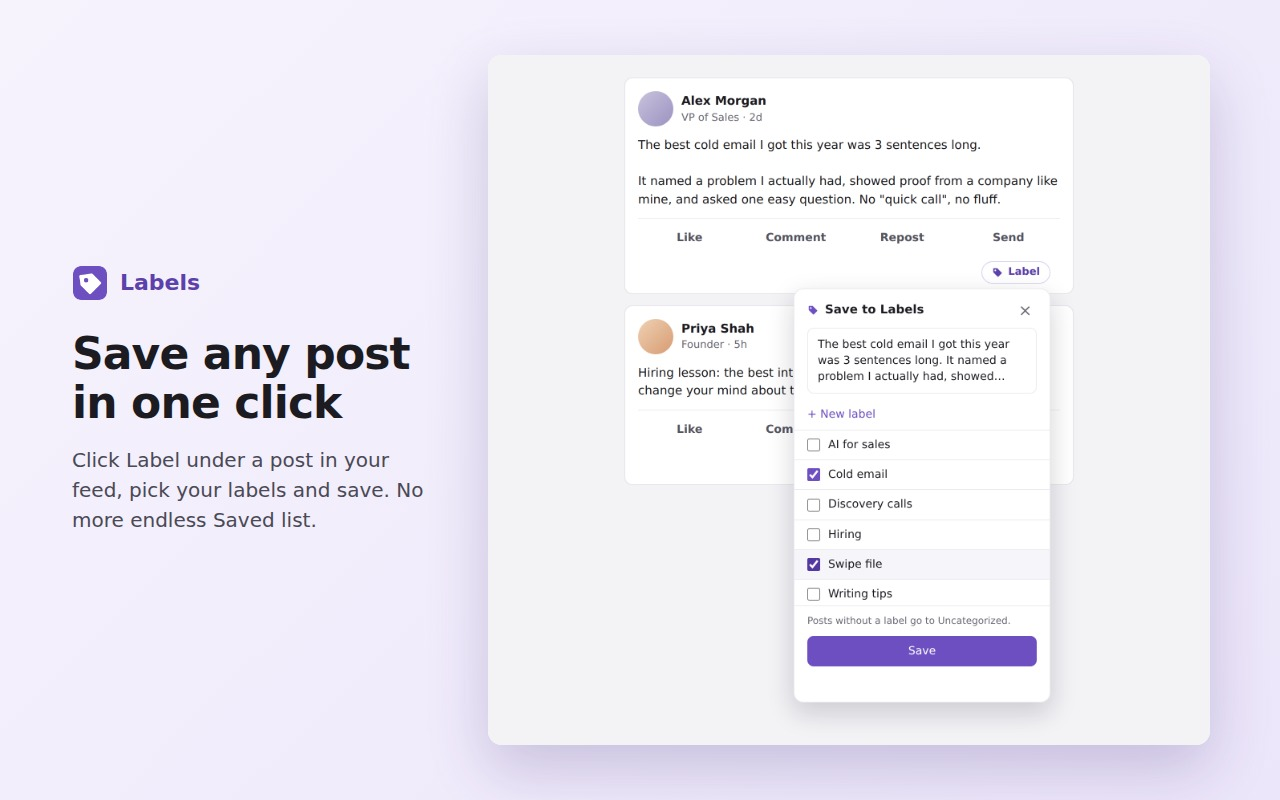
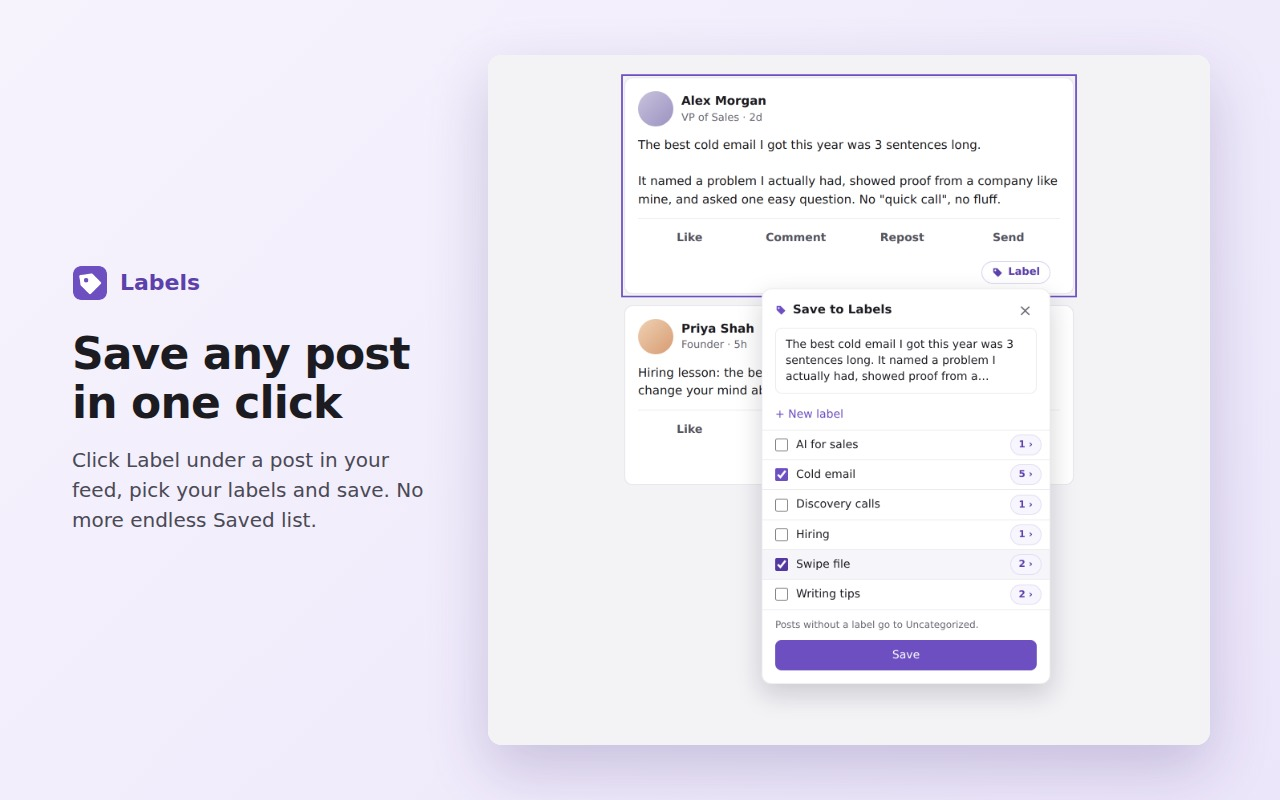
Picker: post counts that open a label; roomier layout
- Each label with saved posts shows a count pill (e.g. '3 ›') in the
  picker. Clicking it opens that label's posts in a full-page tab
  (popup.html?mode=tab&label=…); clicking the row still only ticks the
  box. Counts update as soon as a post is saved.
- Picker is 360px wide like the toolbar popup, the label list grows with
  the window (180-400px), and the empty space reserved under Save is
  gone until there's a status to show. Row hover covers the whole row.
- Regenerated store images; e2e grows to 29 checks.

Claude-Session: https://claude.ai/code/session_014VXTtQaA3nHhVf8nrcdrNo

Changed region(s): [[0.5938, 0.375, 0.8438, 0.875], [0.5, 0.3438, 0.5938, 0.375], [0.8125, 0.3438, 0.8438, 0.375]]

diff --git a/content.js b/content.js
@@ -32,7 +32,7 @@
 
   const PANEL_CSS = `${BASE_CSS}
     .panel {
-      position: fixed; z-index: 2147483000; width: 320px; max-width: calc(100vw - 16px);
+      position: fixed; z-index: 2147483000; width: 360px; max-width: calc(100vw - 16px);
       background: #fff; color: #1c1b22; border: 1px solid #ececf0; border-radius: 12px;
       box-shadow: 0 12px 32px rgba(20, 20, 40, 0.18); font-size: 14px; line-height: 1.45;
       padding: 14px 16px 16px;
@@ -56,11 +56,13 @@
       font: inherit; font-size: 14px; color: #1c1b22; background: #fff;
     }
     input[type=text]:focus { outline: none; border-color: #6d4fc2; box-shadow: 0 0 0 3px #f2eefb; }
-    .list { list-style: none; margin: 4px -16px 10px; padding: 0; max-height: 220px; overflow-y: auto;
+    .list { list-style: none; margin: 4px -16px 10px; padding: 0; overflow-y: auto;
+      max-height: clamp(180px, calc(100vh - 360px), 400px);
       border-top: 1px solid #ececf0; border-bottom: 1px solid #ececf0; }
+    .list li { display: flex; align-items: center; }
     .list li + li { border-top: 1px solid #ececf0; }
-    .list label { display: flex; align-items: center; gap: 10px; padding: 8px 16px; cursor: pointer; }
-    .list label:hover { background: #f6f5f9; }
+    .list label { flex: 1; min-width: 0; display: flex; align-items: center; gap: 10px; padding: 8px 8px 8px 16px; cursor: pointer; }
+    .list li:hover { background: #f6f5f9; }
     .list input { width: 16px; height: 16px; margin: 0; accent-color: #6d4fc2; flex: none; }
     .list span { overflow: hidden; text-overflow: ellipsis; white-space: nowrap; }
     .hint { font-size: 12px; color: #6b6a75; margin: 0 0 10px; }
@@ -70,7 +72,14 @@
     .btn.block { width: 100%; }
     .btn:disabled { opacity: 0.55; cursor: default; }
     .error { margin: 8px 0; padding: 8px 10px; border-radius: 6px; background: #fdf0f0; color: #b4262c; font-size: 13px; }
-    .status { min-height: 20px; margin-top: 8px; text-align: center; font-size: 13px; color: #2f7d4f; font-weight: 500; }
+    .count {
+      flex: none; margin-right: 10px; padding: 4px 10px; border: 1px solid #e4def6; border-radius: 999px;
+      background: #f7f5fd; color: #5c40ab; font-size: 12px; font-weight: 600; line-height: 1.3;
+      font-variant-numeric: tabular-nums;
+    }
+    .count:hover { background: #ece6fa; border-color: #d3c8f1; }
+    .count:focus-visible { outline: 2px solid #6d4fc2; outline-offset: 1px; }
+    .status { margin-top: 8px; text-align: center; font-size: 13px; color: #2f7d4f; font-weight: 500; }
     .loading { color: #6b6a75; padding: 12px 0; }
   `;
 
@@ -346,6 +355,19 @@
                   }),
                   h('span', null, label.name),
                 ),
+                label.count > 0 &&
+                  h(
+                    'button',
+                    {
+                      class: 'count',
+                      type: 'button',
+                      title: `View ${label.count} saved post${label.count === 1 ? '' : 's'}`,
+                      'aria-label': `View ${label.count} saved post${label.count === 1 ? '' : 's'} in ${label.name}`,
+                      'data-focus': `count-${label.id}`,
+                      onClick: () => openLabel(label.id),
+                    },
+                    `${label.count} \u203A`,
+                  ),
               ),
             ),
           )
@@ -357,8 +379,19 @@
         { class: 'btn primary block', type: 'button', disabled: p.saving, 'data-focus': 'save', onClick: save },
         existing ? 'Update' : 'Save',
       ),
-      h('div', { class: 'status', role: 'status' }, p.status),
+      p.status && h('div', { class: 'status', role: 'status' }, p.status),
     );
+  }
+
+  async function openLabel(labelId) {
+    try {
+      await send('openLabel', { labelId });
+    } catch (err) {
+      if (panel) {
+        panel.error = err.message;
+        renderPanel();
+      }
+    }
   }
 
   function renderNewLabel() {

diff --git a/background.js b/background.js
@@ -1,19 +1,28 @@
 // Handles storage for the feed buttons (content.js), so labels and saved posts are read
 // and written by the same code the toolbar popup uses.
 import { classifyUrl, makeExcerpt } from './lib/post.js';
-import { createStore, LabelsError, sortedLabels } from './lib/store.js';
+import { createStore, LabelsError, labelsWithCounts, UNCATEGORIZED_ID } from './lib/store.js';
 
 const store = createStore(chrome.storage.local);
 
 function view(data, postId) {
   return {
-    labels: sortedLabels(data).map(l => ({ id: l.id, name: l.name })),
+    labels: labelsWithCounts(data)
+      .filter(l => l.id !== UNCATEGORIZED_ID)
+      .map(l => ({ id: l.id, name: l.name, count: l.count })),
     post: postId ? (data.posts[postId] ?? null) : null,
     savedIds: Object.keys(data.posts),
   };
 }
 
 const handlers = {
+  // Opens a label's saved posts in a full-page tab (the popup's label screen).
+  async openLabel({ labelId }) {
+    const url = chrome.runtime.getURL(`popup.html?mode=tab&label=${encodeURIComponent(labelId)}`);
+    await chrome.tabs.create({ url });
+    return {};
+  },
+
   async getState({ postId }) {
     return view(await store.load(), postId);
   },

diff --git a/popup.js b/popup.js
@@ -877,7 +877,11 @@ async function init() {
       }
     }
   }
-  if (isTab) state.view = location.hash === '#help' ? 'help' : 'labels';
+  const deepLabel = new URLSearchParams(location.search).get('label');
+  if (isTab && deepLabel && labelName(state.data, deepLabel)) {
+    state.view = 'label';
+    state.labelId = deepLabel;
+  } else if (isTab) state.view = location.hash === '#help' ? 'help' : 'labels';
   else state.view = page.kind === 'post' || page.kind === 'post-unidentified' ? 'save' : 'labels';
   render();
 }

diff --git a/README.md b/README.md
@@ -4,6 +4,8 @@ A small Chrome extension (Manifest V3) for saving LinkedIn posts with your own l
 
 **Save from the feed:** click the purple **Label** button under any post → pick labels → Save.
 
+In the picker, labels that already have posts show a count like `3 ›`. Click it to open that label's posts in a new tab. Clicking the label name still just ticks the box.
+
 **Or from the keyboard:** press **Alt+Shift+L** (⌥⇧L on Mac) to open the picker for the post under your mouse, or the one filling most of the screen. That post is outlined in purple while the picker is open. Tab through labels, Space to tick, Enter to save, Esc to close. Change the shortcut at `chrome://extensions/shortcuts`. Off LinkedIn, the shortcut opens the Labels popup.
 
 **Or from a post page:** open a LinkedIn post on its own page → click the Labels toolbar icon → pick labels → Save.
